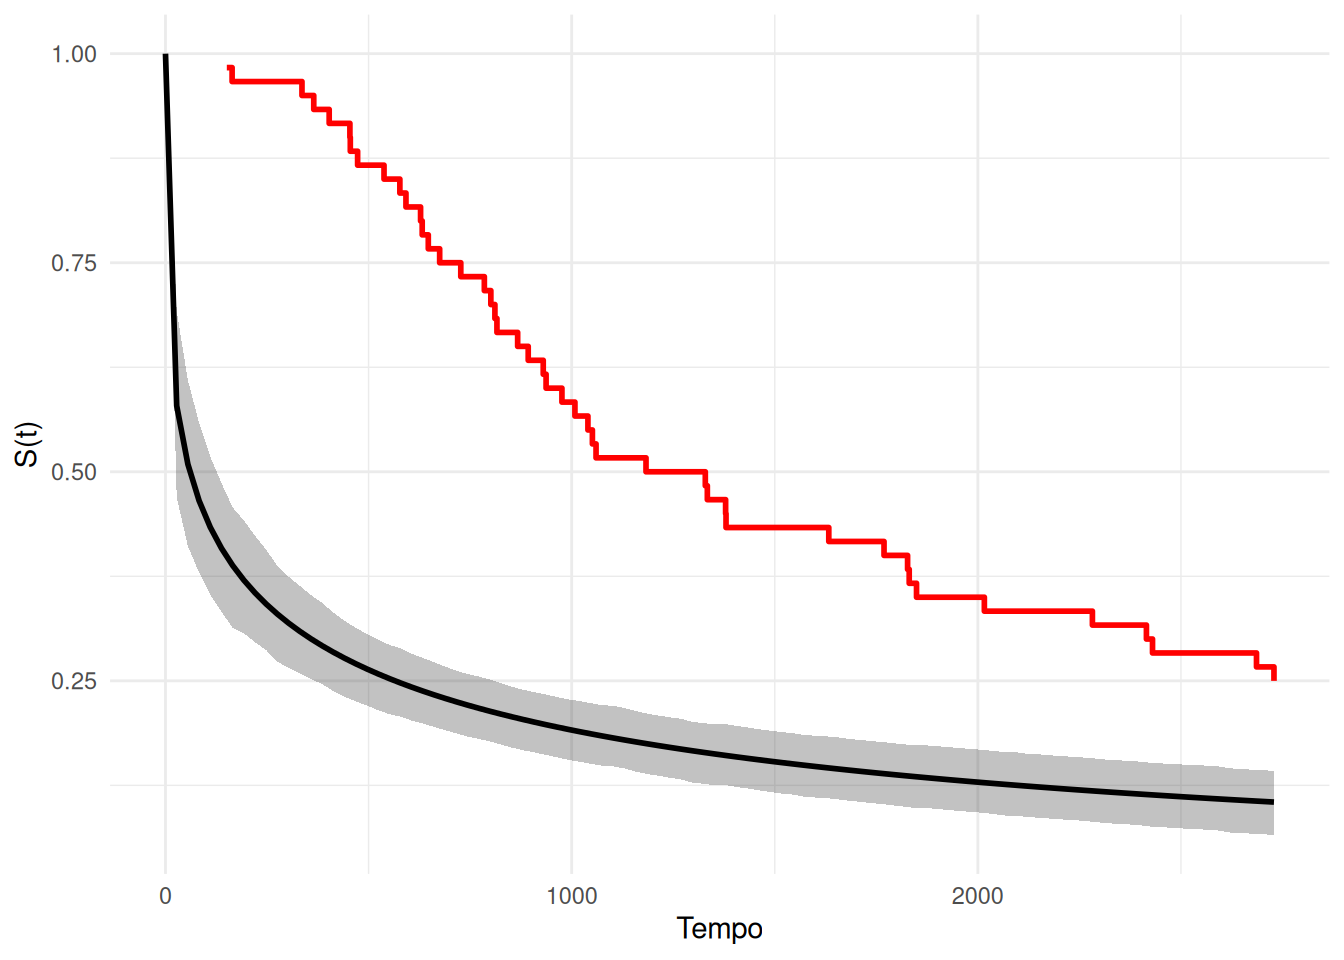
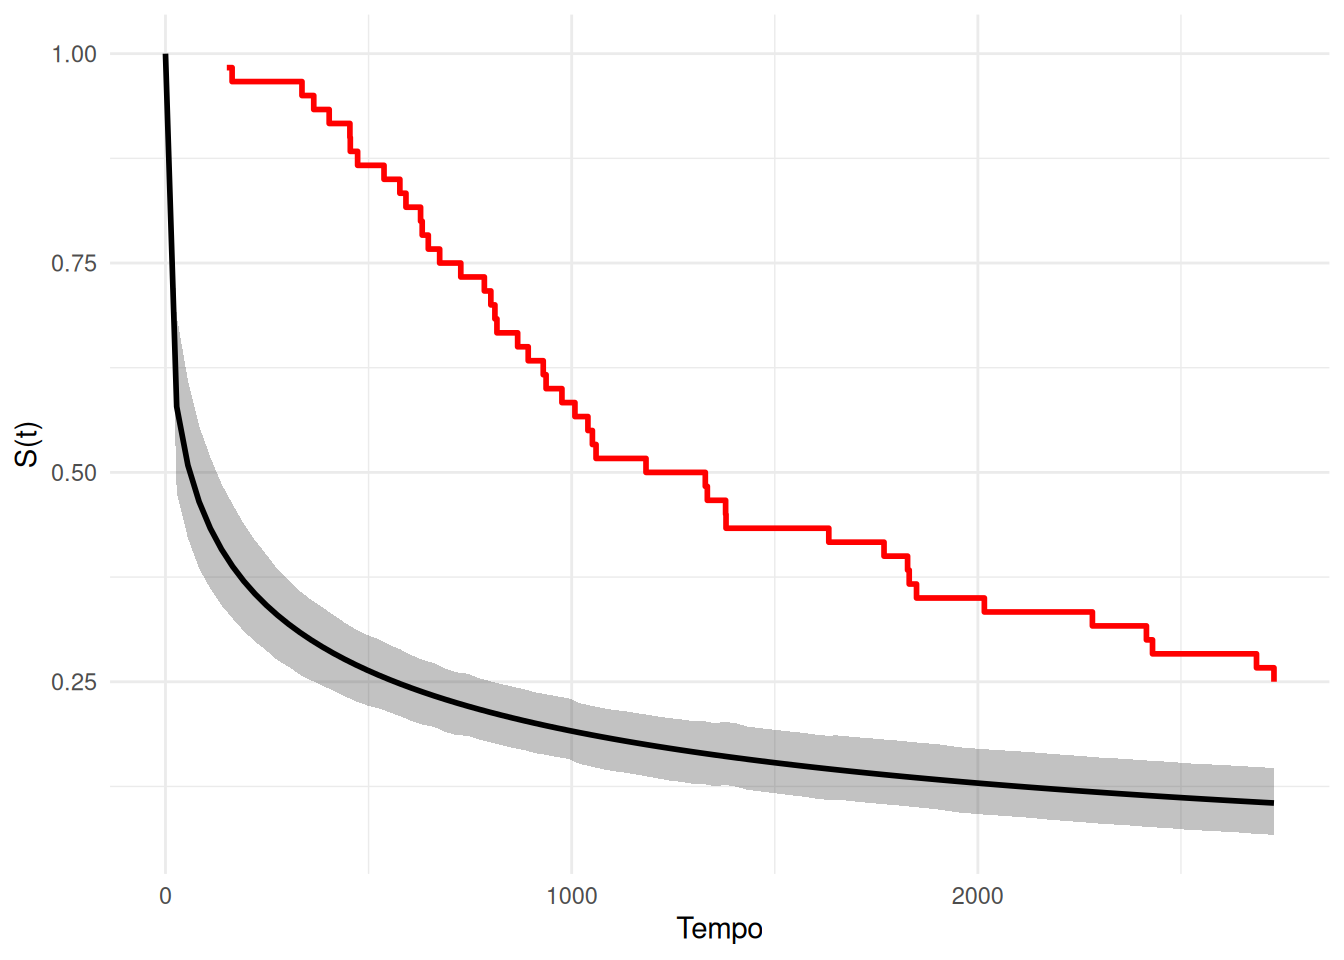
+temp3

diff --git a/_book/models.html b/_book/models.html
@@ -769,25 +769,25 @@ $lp__
 <span id="cb21-20"><a href="#cb21-20" aria-hidden="true" tabindex="-1"></a><span class="fu">lapply</span>(resumo, head)</span></code></pre></div><button title="Copiar para a área de transferência" class="code-copy-button"><i class="bi"></i></button></div>
 <div class="cell-output cell-output-stdout">
 <pre><code>$alpha
-         media   mediana   hpd_min  hpd_max
-[1,] 0.3110312 0.3072045 0.2127144 0.413807
+         media   mediana   hpd_min   hpd_max
+[1,] 0.3104885 0.3059394 0.2140357 0.4120547
 
 $sigma
-       media mediana  hpd_min  hpd_max
-[1,] 198.412 192.098 93.16136 317.6752
+        media  mediana  hpd_min  hpd_max
+[1,] 197.5919 193.2666 98.76501 310.8847
 
 $S
          media   mediana   hpd_min   hpd_max
 [1,] 1.0000000 1.0000000 1.0000000 1.0000000
-[2,] 0.5790122 0.5763836 0.4693437 0.6923808
-[3,] 0.5090482 0.5056406 0.4109894 0.6094255
-[4,] 0.4654728 0.4616534 0.3794015 0.5585581
-[5,] 0.4336433 0.4297810 0.3528409 0.5180024
-[6,] 0.4085694 0.4050914 0.3327099 0.4864770
+[2,] 0.5785205 0.5756944 0.4760837 0.6868590
+[3,] 0.5085880 0.5059623 0.4215801 0.6100468
+[4,] 0.4650460 0.4626277 0.3854587 0.5557207
+[5,] 0.4332475 0.4310995 0.3612697 0.5183198
+[6,] 0.4082017 0.4061638 0.3412344 0.4864013
 
 $lp__
-         media   mediana   hpd_min   hpd_max
-[1,] -465.8763 -465.5841 -467.8836 -464.8248</code></pre>
+         media  mediana   hpd_min   hpd_max
+[1,] -465.8408 -465.539 -467.8555 -464.8253</code></pre>
 </div>
 </div>
 <div class="cell">
@@ -851,33 +851,166 @@ $lp__
 <span id="cb24-3"><a href="#cb24-3" aria-hidden="true" tabindex="-1"></a><span class="fu">library</span>(tidyverse)</span>
 <span id="cb24-4"><a href="#cb24-4" aria-hidden="true" tabindex="-1"></a></span>
 <span id="cb24-5"><a href="#cb24-5" aria-hidden="true" tabindex="-1"></a>st <span class="ot">=</span> stations <span class="sc">|&gt;</span> <span class="fu">filter</span>(state <span class="sc">==</span> <span class="st">"Minas Gerais"</span>) <span class="sc">|&gt;</span> <span class="fu">pull</span>(station.id)</span>
-<span id="cb24-6"><a href="#cb24-6" aria-hidden="true" tabindex="-1"></a></span>
-<span id="cb24-7"><a href="#cb24-7" aria-hidden="true" tabindex="-1"></a>df <span class="ot">=</span></span>
-<span id="cb24-8"><a href="#cb24-8" aria-hidden="true" tabindex="-1"></a>  <span class="fu">get_data</span>(<span class="at">first.day =</span> <span class="st">"2025-01-01"</span>, <span class="at">last.day =</span> <span class="st">"2025-12-31"</span>, <span class="at">stations =</span> st, <span class="at">vars =</span> <span class="st">"temperature_air"</span>) <span class="sc">|&gt;</span></span>
-<span id="cb24-9"><a href="#cb24-9" aria-hidden="true" tabindex="-1"></a>  <span class="fu">filter</span>(station <span class="sc">%in%</span> st) <span class="sc">|&gt;</span></span>
-<span id="cb24-10"><a href="#cb24-10" aria-hidden="true" tabindex="-1"></a>  <span class="fu">mutate</span>(</span>
-<span id="cb24-11"><a href="#cb24-11" aria-hidden="true" tabindex="-1"></a>    <span class="at">time =</span> <span class="fu">substr</span>(time,<span class="dv">1</span>,<span class="dv">7</span>)</span>
-<span id="cb24-12"><a href="#cb24-12" aria-hidden="true" tabindex="-1"></a>  ) <span class="sc">|&gt;</span></span>
-<span id="cb24-13"><a href="#cb24-13" aria-hidden="true" tabindex="-1"></a>  <span class="fu">group_by</span>(station, time) <span class="sc">|&gt;</span></span>
-<span id="cb24-14"><a href="#cb24-14" aria-hidden="true" tabindex="-1"></a>  <span class="fu">summarise</span>(</span>
-<span id="cb24-15"><a href="#cb24-15" aria-hidden="true" tabindex="-1"></a>    <span class="at">temp =</span> <span class="fu">mean</span>(temperature_air, <span class="at">na.rm =</span> T),</span>
-<span id="cb24-16"><a href="#cb24-16" aria-hidden="true" tabindex="-1"></a>    <span class="at">.groups =</span> <span class="st">"drop"</span></span>
-<span id="cb24-17"><a href="#cb24-17" aria-hidden="true" tabindex="-1"></a>  ) <span class="sc">|&gt;</span></span>
-<span id="cb24-18"><a href="#cb24-18" aria-hidden="true" tabindex="-1"></a>  <span class="fu">rename</span>(<span class="at">mes =</span> <span class="st">"time"</span>, <span class="at">estacao =</span> <span class="st">"station"</span>)</span>
-<span id="cb24-19"><a href="#cb24-19" aria-hidden="true" tabindex="-1"></a></span>
-<span id="cb24-20"><a href="#cb24-20" aria-hidden="true" tabindex="-1"></a>st_w_na <span class="ot">=</span></span>
-<span id="cb24-21"><a href="#cb24-21" aria-hidden="true" tabindex="-1"></a>  df <span class="sc">|&gt;</span></span>
-<span id="cb24-22"><a href="#cb24-22" aria-hidden="true" tabindex="-1"></a>  <span class="fu">filter</span>(<span class="fu">is.na</span>(temp)) <span class="sc">|&gt;</span></span>
-<span id="cb24-23"><a href="#cb24-23" aria-hidden="true" tabindex="-1"></a>  <span class="fu">pull</span>(estacao) <span class="sc">|&gt;</span></span>
-<span id="cb24-24"><a href="#cb24-24" aria-hidden="true" tabindex="-1"></a>  <span class="fu">unique</span>()</span>
-<span id="cb24-25"><a href="#cb24-25" aria-hidden="true" tabindex="-1"></a></span>
-<span id="cb24-26"><a href="#cb24-26" aria-hidden="true" tabindex="-1"></a>df_wo_na <span class="ot">=</span> </span>
-<span id="cb24-27"><a href="#cb24-27" aria-hidden="true" tabindex="-1"></a>  df <span class="sc">|&gt;</span></span>
-<span id="cb24-28"><a href="#cb24-28" aria-hidden="true" tabindex="-1"></a>  <span class="fu">filter</span>(<span class="sc">!</span>estacao <span class="sc">%in%</span> st_w_na) <span class="sc">|&gt;</span></span>
-<span id="cb24-29"><a href="#cb24-29" aria-hidden="true" tabindex="-1"></a>  <span class="fu">pivot_wider</span>(<span class="at">values_from =</span> <span class="st">"temp"</span>, <span class="at">names_from =</span> <span class="st">"mes"</span>)</span>
-<span id="cb24-30"><a href="#cb24-30" aria-hidden="true" tabindex="-1"></a></span>
-<span id="cb24-31"><a href="#cb24-31" aria-hidden="true" tabindex="-1"></a><span class="fu">write.csv</span>(df_wo_na, <span class="st">"stuff/meteo.csv"</span>, <span class="at">row.names =</span> F)</span></code></pre></div><button title="Copiar para a área de transferência" class="code-copy-button"><i class="bi"></i></button></div>
+<span id="cb24-6"><a href="#cb24-6" aria-hidden="true" tabindex="-1"></a>ibge <span class="ot">=</span></span>
+<span id="cb24-7"><a href="#cb24-7" aria-hidden="true" tabindex="-1"></a>  readxl<span class="sc">::</span><span class="fu">read_xls</span>(<span class="st">"~/Downloads/DTB_2024(1)/RELATORIO_DTB_BRASIL_2024_MUNICIPIOS.xls"</span>, <span class="at">skip=</span><span class="dv">6</span>) <span class="sc">|&gt;</span></span>
+<span id="cb24-8"><a href="#cb24-8" aria-hidden="true" tabindex="-1"></a>  <span class="fu">select</span>(<span class="st">`</span><span class="at">Código Município Completo</span><span class="st">`</span>, <span class="st">`</span><span class="at">Região Geográfica Intermediária</span><span class="st">`</span>) <span class="sc">|&gt;</span></span>
+<span id="cb24-9"><a href="#cb24-9" aria-hidden="true" tabindex="-1"></a>  <span class="st">`</span><span class="at">colnames&lt;-</span><span class="st">`</span>(<span class="fu">c</span>(<span class="st">"town.id"</span>, <span class="st">"regiao"</span>))</span>
+<span id="cb24-10"><a href="#cb24-10" aria-hidden="true" tabindex="-1"></a>df <span class="ot">=</span></span>
+<span id="cb24-11"><a href="#cb24-11" aria-hidden="true" tabindex="-1"></a>  <span class="fu">get_data</span>(<span class="at">first.day =</span> <span class="st">"2025-01-01"</span>, <span class="at">last.day =</span> <span class="st">"2025-12-31"</span>, <span class="at">stations =</span> st, <span class="at">vars =</span> <span class="st">"temperature_air"</span>) <span class="sc">|&gt;</span></span>
+<span id="cb24-12"><a href="#cb24-12" aria-hidden="true" tabindex="-1"></a>  <span class="fu">filter</span>(station <span class="sc">%in%</span> st) <span class="sc">|&gt;</span></span>
+<span id="cb24-13"><a href="#cb24-13" aria-hidden="true" tabindex="-1"></a>  <span class="fu">mutate</span>(</span>
+<span id="cb24-14"><a href="#cb24-14" aria-hidden="true" tabindex="-1"></a>    <span class="at">time =</span> <span class="fu">substr</span>(time,<span class="dv">1</span>,<span class="dv">7</span>)</span>
+<span id="cb24-15"><a href="#cb24-15" aria-hidden="true" tabindex="-1"></a>  ) <span class="sc">|&gt;</span></span>
+<span id="cb24-16"><a href="#cb24-16" aria-hidden="true" tabindex="-1"></a>  <span class="fu">group_by</span>(station, time) <span class="sc">|&gt;</span></span>
+<span id="cb24-17"><a href="#cb24-17" aria-hidden="true" tabindex="-1"></a>  <span class="fu">summarise</span>(</span>
+<span id="cb24-18"><a href="#cb24-18" aria-hidden="true" tabindex="-1"></a>    <span class="at">temp =</span> <span class="fu">mean</span>(temperature_air, <span class="at">na.rm =</span> T),</span>
+<span id="cb24-19"><a href="#cb24-19" aria-hidden="true" tabindex="-1"></a>    <span class="at">.groups =</span> <span class="st">"drop"</span></span>
+<span id="cb24-20"><a href="#cb24-20" aria-hidden="true" tabindex="-1"></a>  ) <span class="sc">|&gt;</span></span>
+<span id="cb24-21"><a href="#cb24-21" aria-hidden="true" tabindex="-1"></a>  <span class="fu">rename</span>(<span class="at">mes =</span> <span class="st">"time"</span>, <span class="at">estacao =</span> <span class="st">"station"</span>)</span>
+<span id="cb24-22"><a href="#cb24-22" aria-hidden="true" tabindex="-1"></a></span>
+<span id="cb24-23"><a href="#cb24-23" aria-hidden="true" tabindex="-1"></a>st_w_na <span class="ot">=</span></span>
+<span id="cb24-24"><a href="#cb24-24" aria-hidden="true" tabindex="-1"></a>  df <span class="sc">|&gt;</span></span>
+<span id="cb24-25"><a href="#cb24-25" aria-hidden="true" tabindex="-1"></a>  <span class="fu">filter</span>(<span class="fu">is.na</span>(temp)) <span class="sc">|&gt;</span></span>
+<span id="cb24-26"><a href="#cb24-26" aria-hidden="true" tabindex="-1"></a>  <span class="fu">pull</span>(estacao) <span class="sc">|&gt;</span></span>
+<span id="cb24-27"><a href="#cb24-27" aria-hidden="true" tabindex="-1"></a>  <span class="fu">unique</span>()</span>
+<span id="cb24-28"><a href="#cb24-28" aria-hidden="true" tabindex="-1"></a></span>
+<span id="cb24-29"><a href="#cb24-29" aria-hidden="true" tabindex="-1"></a>df_wo_na <span class="ot">=</span> </span>
+<span id="cb24-30"><a href="#cb24-30" aria-hidden="true" tabindex="-1"></a>  df <span class="sc">|&gt;</span></span>
+<span id="cb24-31"><a href="#cb24-31" aria-hidden="true" tabindex="-1"></a>  <span class="fu">filter</span>(<span class="sc">!</span>estacao <span class="sc">%in%</span> st_w_na) <span class="sc">|&gt;</span></span>
+<span id="cb24-32"><a href="#cb24-32" aria-hidden="true" tabindex="-1"></a>  <span class="fu">left_join</span>(<span class="fu">select</span>(stations,<span class="st">"station.id"</span>, <span class="st">"town.id"</span>), <span class="at">by =</span> <span class="fu">c</span>(<span class="st">"estacao"</span> <span class="ot">=</span> <span class="st">"station.id"</span>)) <span class="sc">|&gt;</span></span>
+<span id="cb24-33"><a href="#cb24-33" aria-hidden="true" tabindex="-1"></a>  <span class="fu">left_join</span>(ibge, <span class="at">by =</span> <span class="st">"town.id"</span>) <span class="sc">|&gt;</span></span>
+<span id="cb24-34"><a href="#cb24-34" aria-hidden="true" tabindex="-1"></a>  <span class="fu">mutate</span>(</span>
+<span id="cb24-35"><a href="#cb24-35" aria-hidden="true" tabindex="-1"></a>    <span class="at">regiao =</span> <span class="fu">case_when</span>(</span>
+<span id="cb24-36"><a href="#cb24-36" aria-hidden="true" tabindex="-1"></a>      regiao <span class="sc">%in%</span> <span class="fu">c</span>(<span class="st">"3102"</span>, <span class="st">"3103"</span>, <span class="st">"3104"</span>, <span class="st">"3112"</span>) <span class="sc">~</span> <span class="st">"NORTE"</span>,</span>
+<span id="cb24-37"><a href="#cb24-37" aria-hidden="true" tabindex="-1"></a>      regiao <span class="sc">%in%</span> <span class="fu">c</span>(<span class="st">"3110"</span>, <span class="st">"3111"</span>) <span class="sc">~</span> <span class="st">"TRIANGULO"</span>,</span>
+<span id="cb24-38"><a href="#cb24-38" aria-hidden="true" tabindex="-1"></a>      <span class="cn">TRUE</span> <span class="sc">~</span> <span class="st">"SUL"</span></span>
+<span id="cb24-39"><a href="#cb24-39" aria-hidden="true" tabindex="-1"></a>    )</span>
+<span id="cb24-40"><a href="#cb24-40" aria-hidden="true" tabindex="-1"></a>  ) <span class="sc">|&gt;</span></span>
+<span id="cb24-41"><a href="#cb24-41" aria-hidden="true" tabindex="-1"></a>  <span class="fu">select</span>(<span class="sc">-</span>town.id) <span class="sc">|&gt;</span></span>
+<span id="cb24-42"><a href="#cb24-42" aria-hidden="true" tabindex="-1"></a>  <span class="fu">pivot_wider</span>(<span class="at">values_from =</span> <span class="st">"temp"</span>, <span class="at">names_from =</span> <span class="st">"mes"</span>) <span class="sc">|&gt;</span></span>
+<span id="cb24-43"><a href="#cb24-43" aria-hidden="true" tabindex="-1"></a>  <span class="fu">relocate</span>(regiao) <span class="sc">|&gt;</span></span>
+<span id="cb24-44"><a href="#cb24-44" aria-hidden="true" tabindex="-1"></a>  <span class="fu">arrange</span>(regiao, estacao)</span>
+<span id="cb24-45"><a href="#cb24-45" aria-hidden="true" tabindex="-1"></a></span>
+<span id="cb24-46"><a href="#cb24-46" aria-hidden="true" tabindex="-1"></a><span class="fu">write.csv</span>(df_wo_na, <span class="st">"stuff/temperatura.csv"</span>, <span class="at">row.names =</span> F)</span></code></pre></div><button title="Copiar para a área de transferência" class="code-copy-button"><i class="bi"></i></button></div>
 </details>
+</div>
+<div class="cell">
+<div class="code-copy-outer-scaffold"><div class="sourceCode cell-code" id="cb25"><pre class="sourceCode r code-with-copy"><code class="sourceCode r"><span id="cb25-1"><a href="#cb25-1" aria-hidden="true" tabindex="-1"></a>temperatura <span class="ot">=</span> <span class="fu">read.csv</span>(<span class="fu">url</span>(<span class="st">"https://raw.githubusercontent.com/carlosdemoura/2026_aula_stan_dani/refs/heads/main/stuff/temperatura.csv"</span>))</span></code></pre></div><button title="Copiar para a área de transferência" class="code-copy-button"><i class="bi"></i></button></div>
+</div>
+<div class="cell">
+<div class="cell-output-display">
+<table class="caption-top table table-sm table-striped small">
+<thead>
+<tr class="header">
+<th style="text-align: left;">estacao</th>
+<th style="text-align: right;">X2025.01</th>
+<th style="text-align: right;">X2025.02</th>
+<th style="text-align: right;">X2025.03</th>
+<th style="text-align: right;">X2025.04</th>
+<th style="text-align: right;">X2025.05</th>
+<th style="text-align: right;">X2025.06</th>
+</tr>
+</thead>
+<tbody>
+<tr class="odd">
+<td style="text-align: left;">A502</td>
+<td style="text-align: right;">20.84</td>
+<td style="text-align: right;">21.89</td>
+<td style="text-align: right;">20.42</td>
+<td style="text-align: right;">18.66</td>
+<td style="text-align: right;">16.57</td>
+<td style="text-align: right;">16.00</td>
+</tr>
+<tr class="even">
+<td style="text-align: left;">A506</td>
+<td style="text-align: right;">24.82</td>
+<td style="text-align: right;">25.43</td>
+<td style="text-align: right;">26.03</td>
+<td style="text-align: right;">25.05</td>
+<td style="text-align: right;">22.27</td>
+<td style="text-align: right;">21.28</td>
+</tr>
+<tr class="odd">
+<td style="text-align: left;">A507</td>
+<td style="text-align: right;">24.24</td>
+<td style="text-align: right;">24.99</td>
+<td style="text-align: right;">25.52</td>
+<td style="text-align: right;">23.88</td>
+<td style="text-align: right;">21.69</td>
+<td style="text-align: right;">20.99</td>
+</tr>
+<tr class="even">
+<td style="text-align: left;">A508</td>
+<td style="text-align: right;">28.10</td>
+<td style="text-align: right;">28.23</td>
+<td style="text-align: right;">27.83</td>
+<td style="text-align: right;">27.88</td>
+<td style="text-align: right;">24.98</td>
+<td style="text-align: right;">23.56</td>
+</tr>
+<tr class="odd">
+<td style="text-align: left;">A509</td>
+<td style="text-align: right;">18.16</td>
+<td style="text-align: right;">18.79</td>
+<td style="text-align: right;">18.15</td>
+<td style="text-align: right;">15.96</td>
+<td style="text-align: right;">13.56</td>
+<td style="text-align: right;">11.89</td>
+</tr>
+<tr class="even">
+<td style="text-align: left;">A510</td>
+<td style="text-align: right;">23.15</td>
+<td style="text-align: right;">23.23</td>
+<td style="text-align: right;">22.87</td>
+<td style="text-align: right;">21.07</td>
+<td style="text-align: right;">18.57</td>
+<td style="text-align: right;">17.21</td>
+</tr>
+<tr class="odd">
+<td style="text-align: left;">A511</td>
+<td style="text-align: right;">24.02</td>
+<td style="text-align: right;">25.49</td>
+<td style="text-align: right;">24.77</td>
+<td style="text-align: right;">22.91</td>
+<td style="text-align: right;">20.65</td>
+<td style="text-align: right;">19.75</td>
+</tr>
+<tr class="even">
+<td style="text-align: left;">A512</td>
+<td style="text-align: right;">25.36</td>
+<td style="text-align: right;">25.34</td>
+<td style="text-align: right;">25.98</td>
+<td style="text-align: right;">24.19</td>
+<td style="text-align: right;">21.51</td>
+<td style="text-align: right;">20.83</td>
+</tr>
+<tr class="odd">
+<td style="text-align: left;">A513</td>
+<td style="text-align: right;">21.84</td>
+<td style="text-align: right;">22.77</td>
+<td style="text-align: right;">21.47</td>
+<td style="text-align: right;">19.79</td>
+<td style="text-align: right;">17.68</td>
+<td style="text-align: right;">17.29</td>
+</tr>
+<tr class="even">
+<td style="text-align: left;">A514</td>
+<td style="text-align: right;">22.30</td>
+<td style="text-align: right;">23.27</td>
+<td style="text-align: right;">22.33</td>
+<td style="text-align: right;">20.43</td>
+<td style="text-align: right;">17.56</td>
+<td style="text-align: right;">16.53</td>
+</tr>
+</tbody>
+</table>
+</div>
+</div>
+<div class="quarto-figure quarto-figure-center">
+<figure class="figure">
+<p><img src="https://upload.wikimedia.org/wikipedia/commons/8/8e/Regi%C3%B5es_Geogr%C3%A1ficas_Intermedi%C3%A1rias_e_Regi%C3%B5es_Geogr%C3%A1ficas_Imediatas_do_estado_de_Minas_Gerais%2C_Brasil.png" class="img-fluid figure-img" style="width:50.0%"></p>
+<figcaption>Regiões de MG</figcaption>
+</figure>
 </div>
 
 
